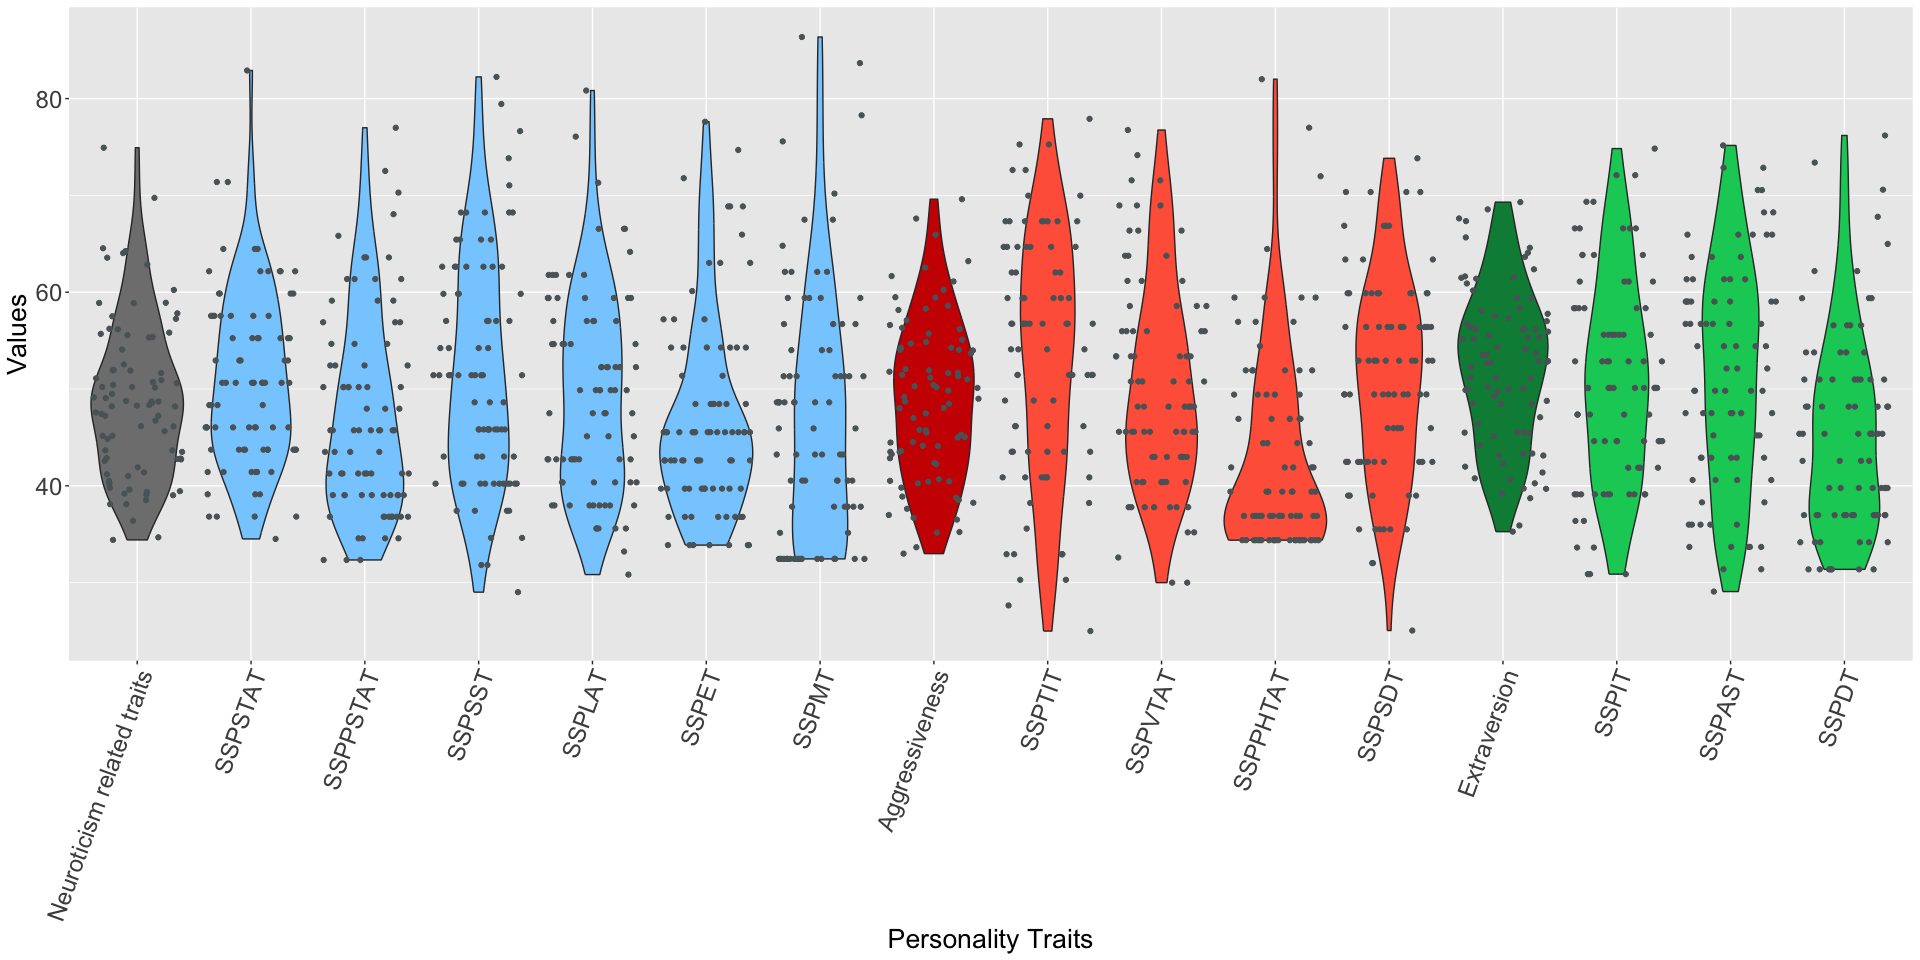
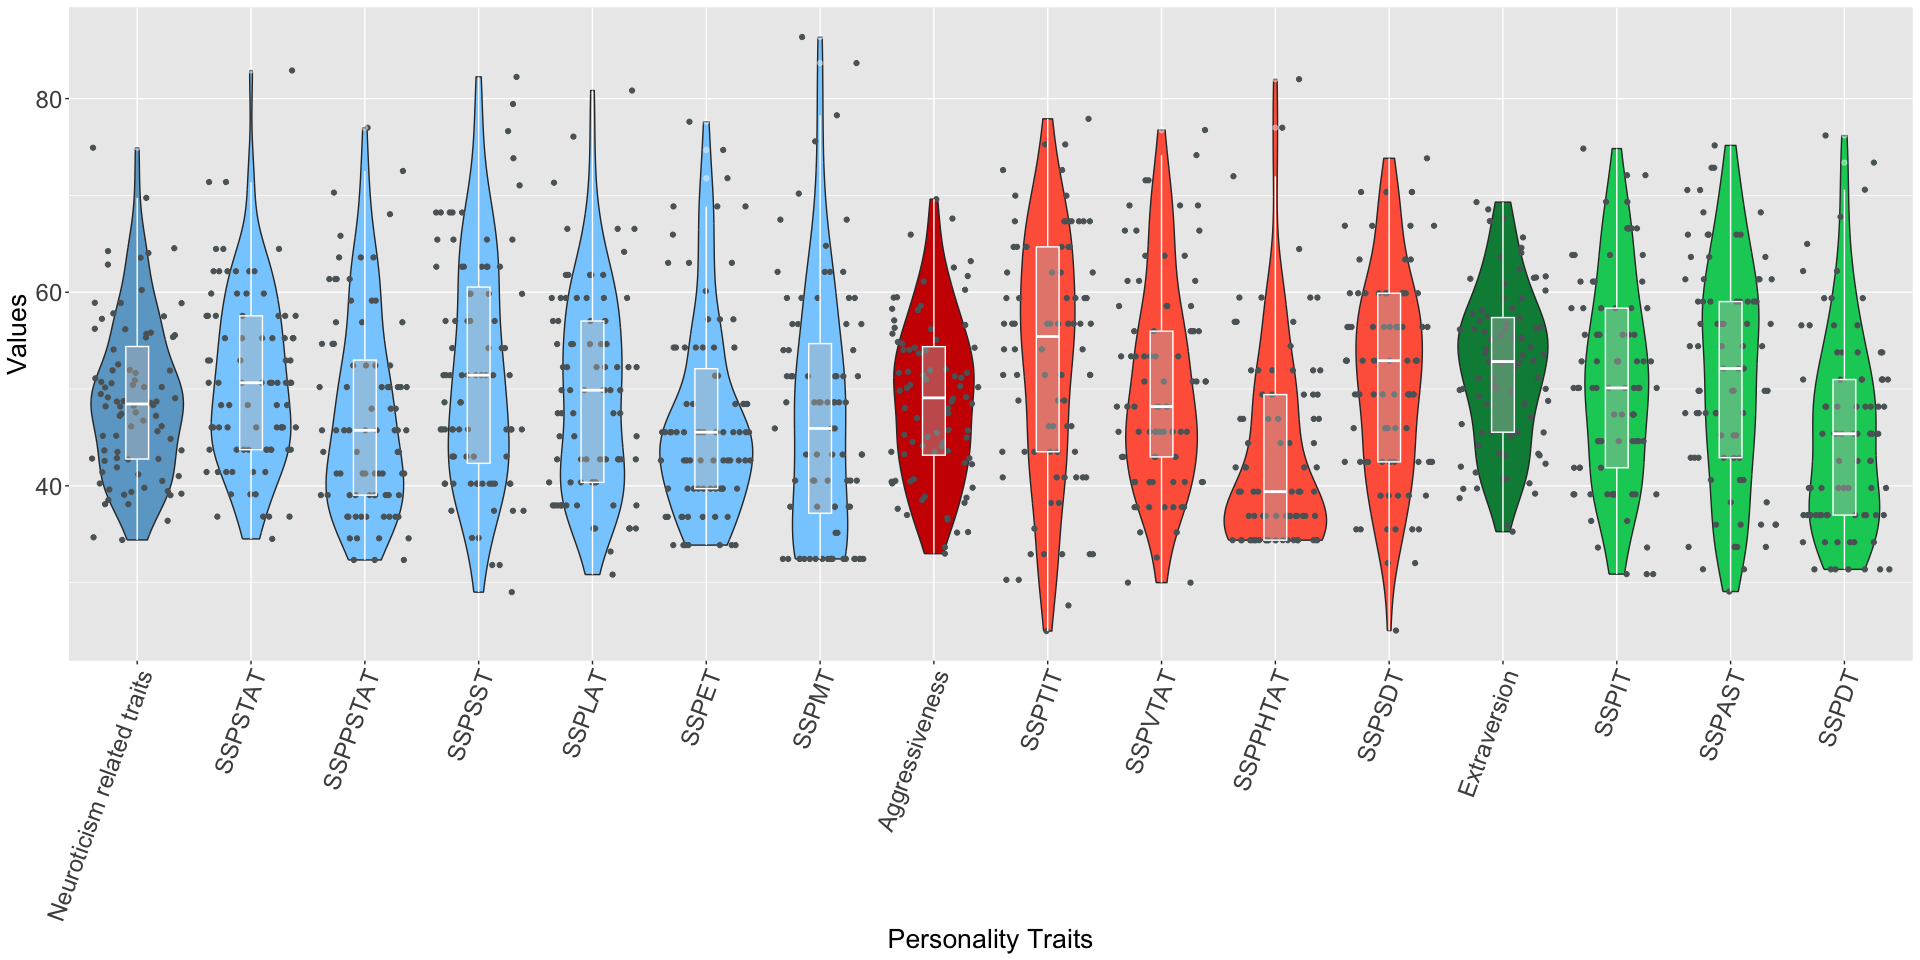
final draft

diff --git a/Projects/elbue/Davidprntz.md b/Projects/elbue/Davidprntz.md
@@ -12,7 +12,7 @@
     ## ℹ Use the conflicted package (<http://conflicted.r-lib.org/>) to force all conflicts to become errors
 
     library(readxl)
-    survey <- read_excel('/Users/dave/Downloads/Elise.xlsx')
+    survey <- read_excel("SSP_20231030_EB.xlsx")
 
     survey_clean <- survey %>% 
       filter(grepl("^ASMR021_", Subject)) %>% # Filter rows that start with "ASMR021_"
@@ -51,7 +51,7 @@
                           "Extraversion", "SSPIT", "SSPAST", "SSPDT")
     survey_clean_long$personality_traits <- factor(survey_clean_long$personality_traits, levels = rank)
 
-    colors <- c('Neuroticism related_traits' = "skyblue3", 
+    colors <- c('Neuroticism related traits' = "skyblue3", 
                 "SSPSTAT" = "skyblue1", 
                 "SSPPSTAT" = "skyblue1", 
                 "SSPSST" = "skyblue1",
@@ -72,4 +72,4 @@
                           "Extraversion", "SSPIT", "SSPAST", "SSPDT")
     survey_clean_long$personality_traits <- factor(survey_clean_long$personality_traits, levels = rank)
 
-![](Davidprntz_files/figure-markdown_strict/unnamed-chunk-7-1.png)![](Davidprntz_files/figure-markdown_strict/unnamed-chunk-7-2.png)![](Davidprntz_files/figure-markdown_strict/unnamed-chunk-7-3.png)
+![](Davidprntz_files/figure-markdown_strict/unnamed-chunk-7-1.png)
